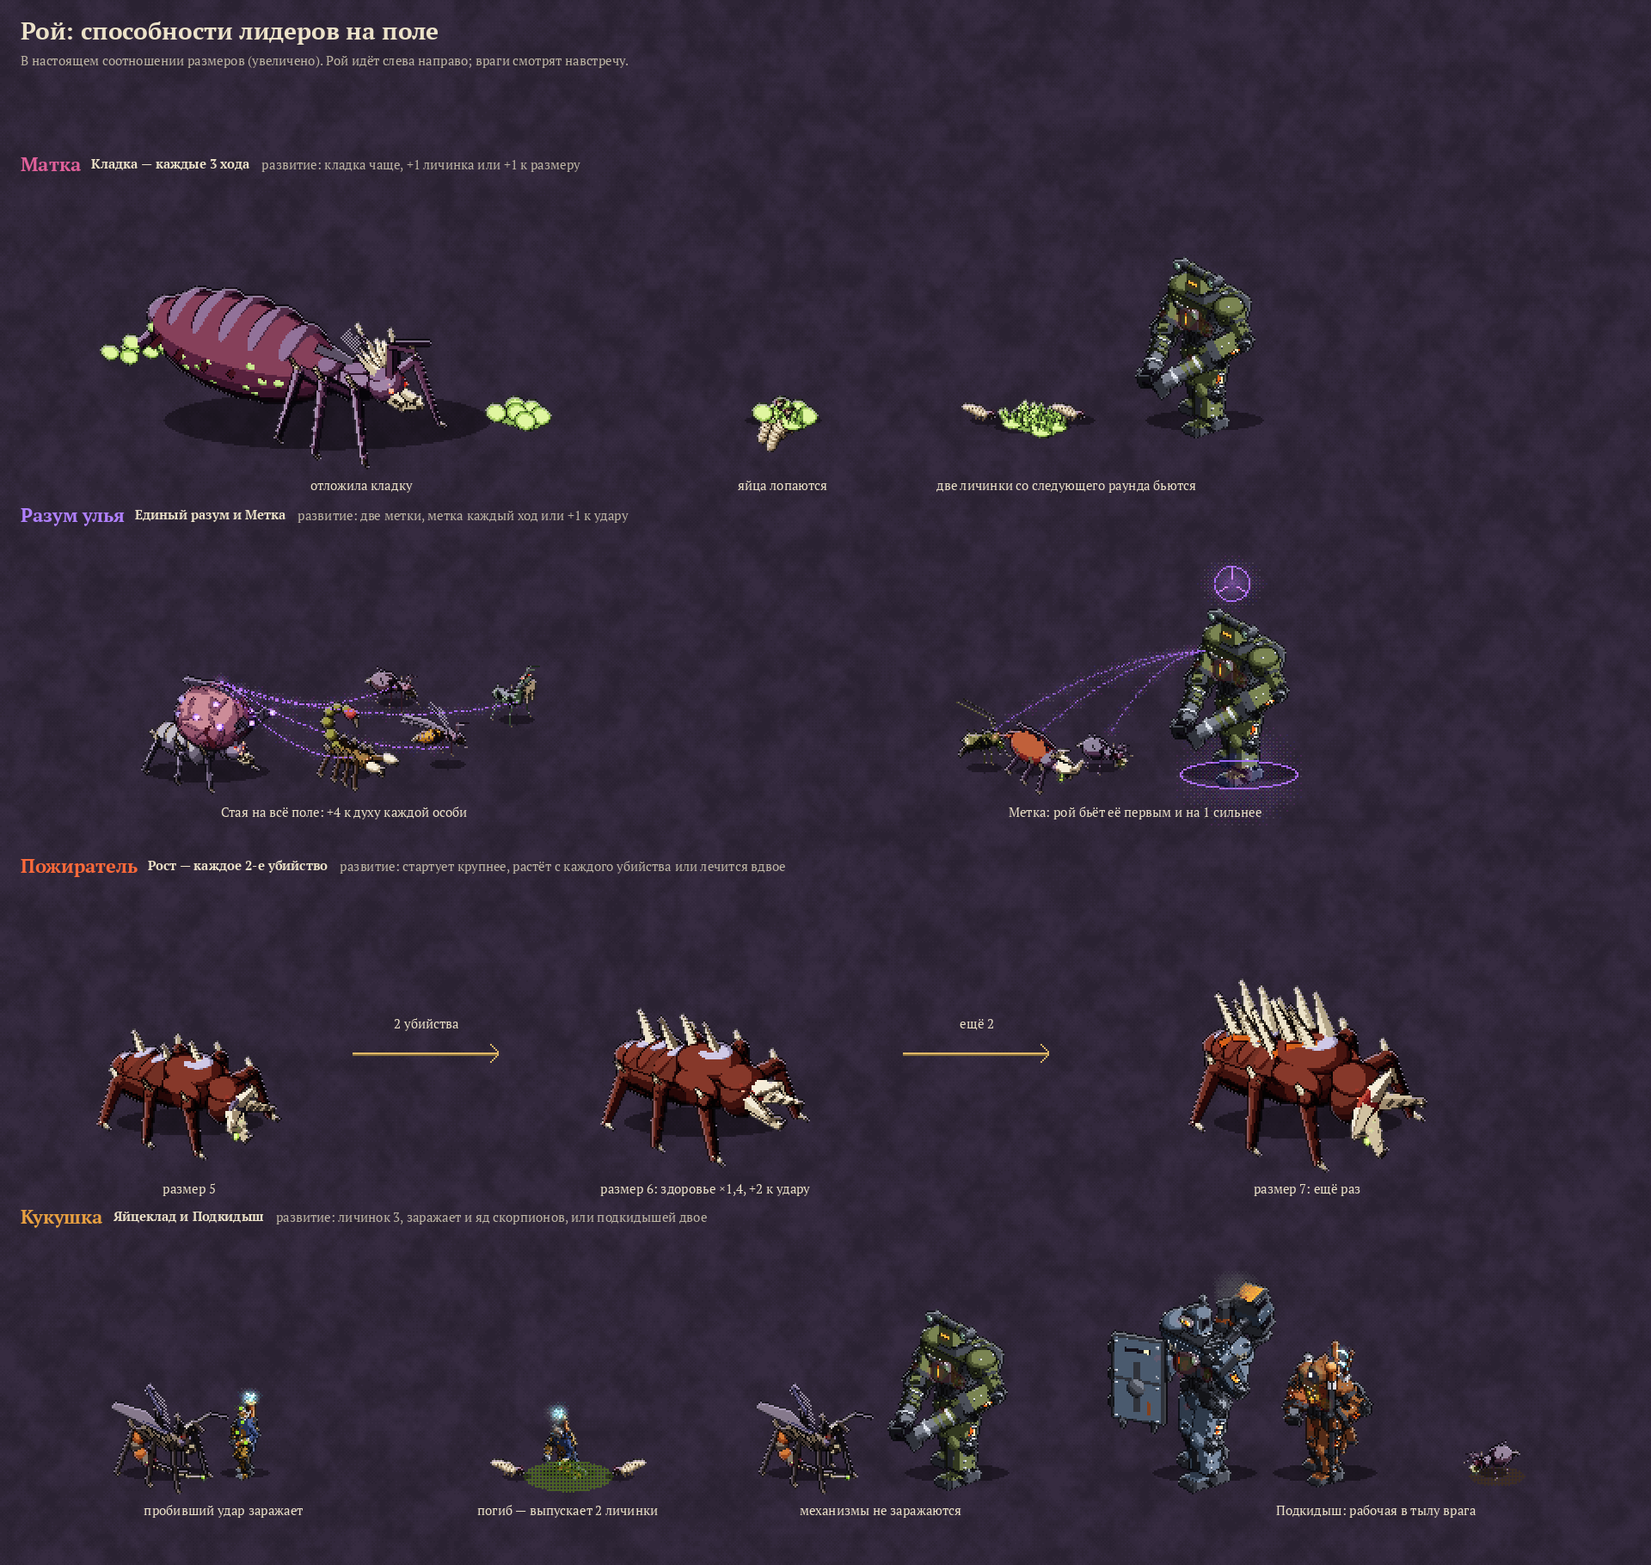
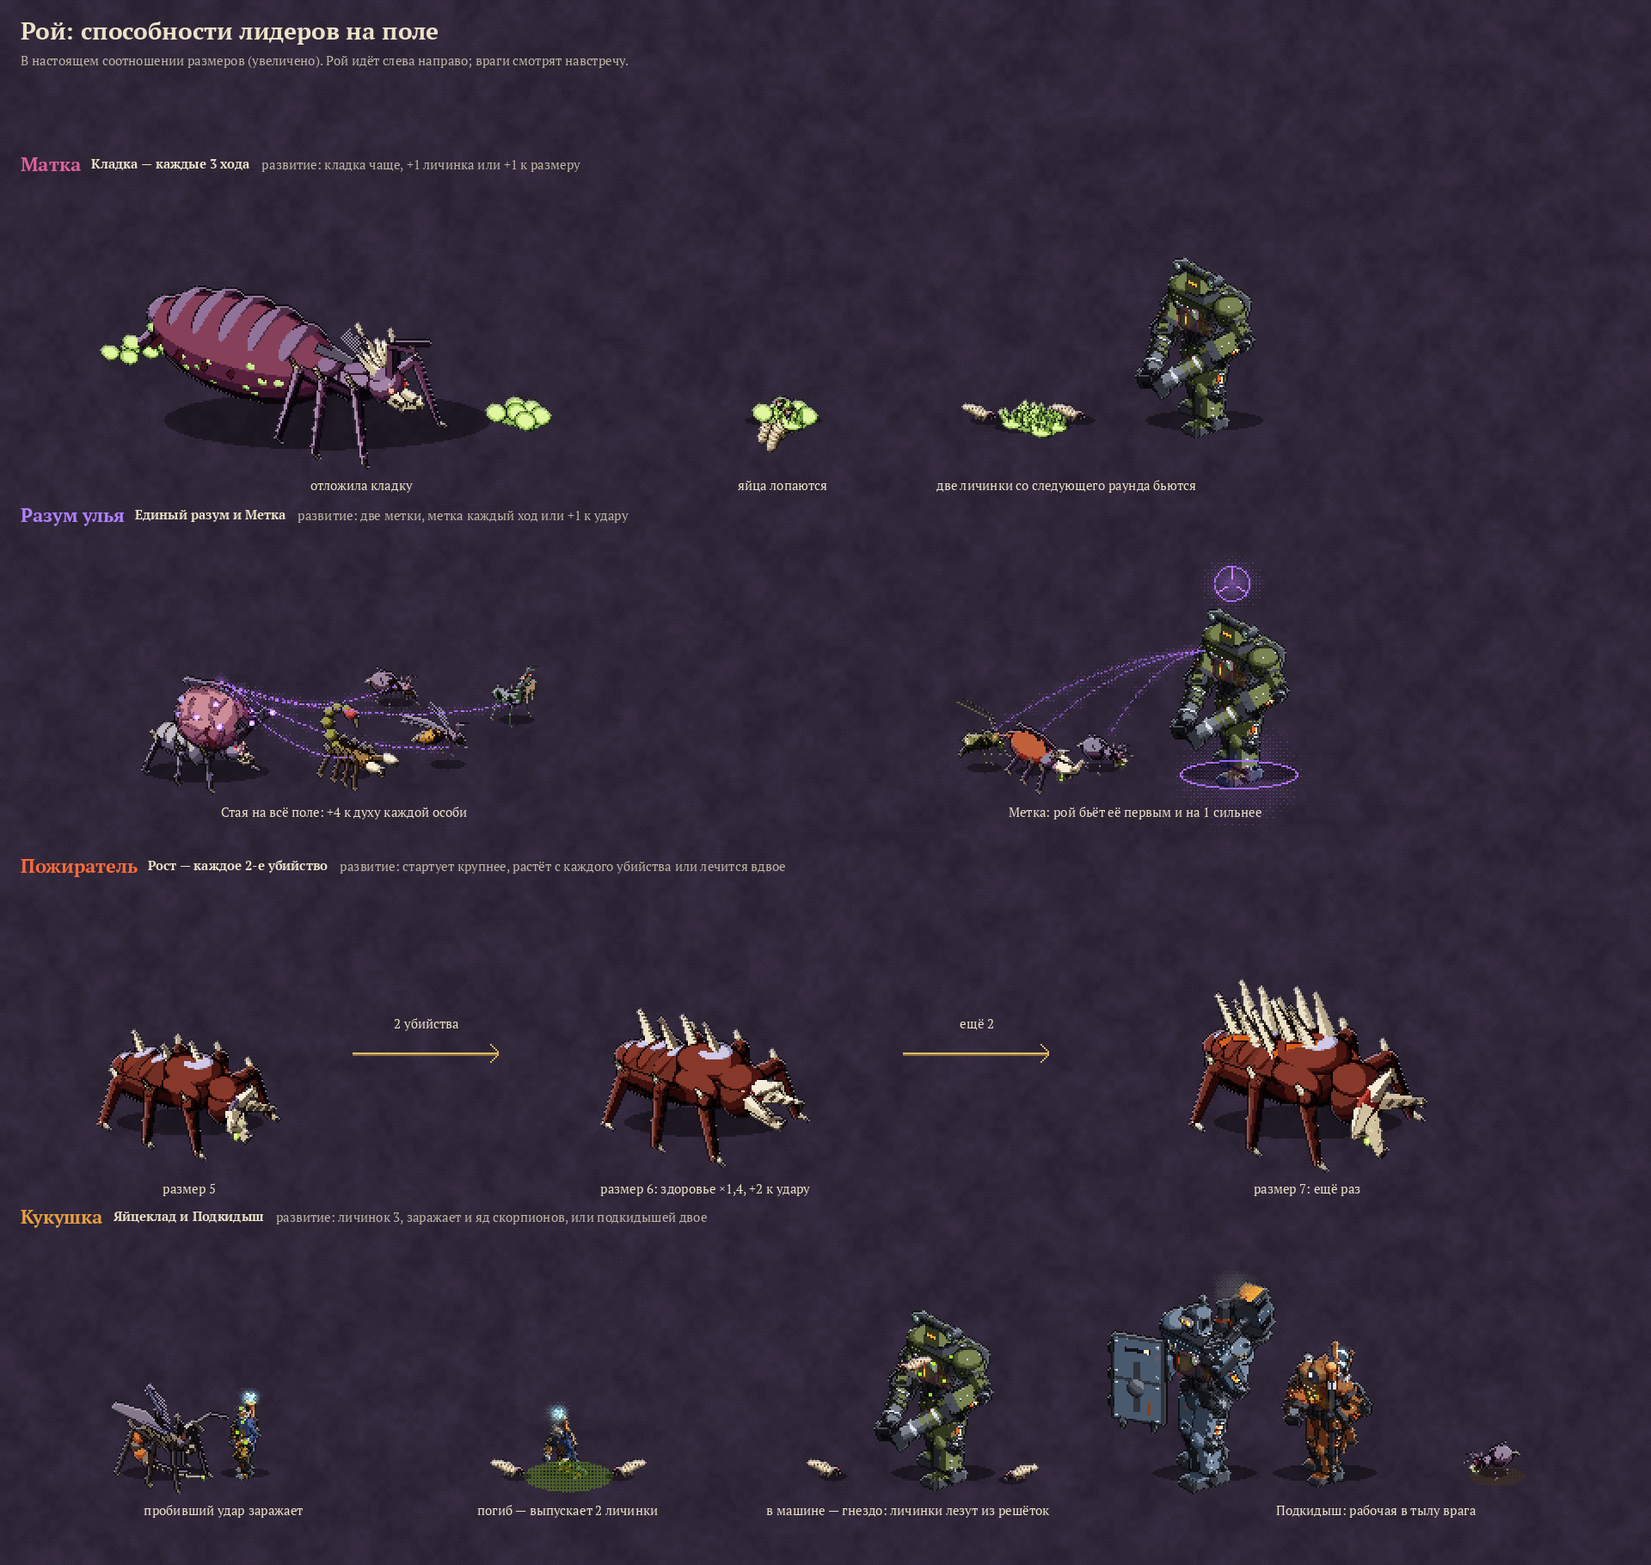
Рой против машин: гнездо Кукушки, яд скорпиона разъедает броню
Яйцеклад: в машине яйца зреют в тепле топки — каждые 3 хода из её решёток
лезет личинка, сломанная выпускает ещё 2; слабость Кукушки теперь «огонь
выжигает кладку». Жало скорпиона снимает броню (−1, не больше −2 с цели),
и машинам тоже. Двойник заменён Почкованием, у Стрекота нет минуса.

Claude-Session: https://claude.ai/code/session_01Bh6a99SKMjjKSinDnrtssC

Changed region(s): [[0.4688, 0.8308, 0.625, 0.9846]]

diff --git a/tools/sprites/swarm_leaders.py b/tools/sprites/swarm_leaders.py
@@ -500,10 +500,10 @@ LEADERS = [
       ("Всё в пасть", "поход: биомасса идёт в его рост между боями; рой меньше"),
       ("Ненасытный", "слабость: три раунда без убийства — теряет десятую часть здоровья", 1)]),
     ("Кукушка", "размер 3 · рой растёт за счёт врага", 2.2,
-     [("Яйцеклад", "атака: пробивший удар заражает; заражённый враг, погибнув, выпускает 2 личинки"),
+     [("Яйцеклад", "атака: заражает; живой, погибнув, выпускает 2 личинки, машина — гнездо"),
       ("Подкидыш", "в начале боя: одна рабочая оказывается в тылу врага"),
       ("Чужие черты", "поход: чужие черты чаще и безумнее, у особи их может быть две"),
-      ("Чужая кровь", "слабость: на механизмы и нежить заражение не действует", 1)]),
+      ("Хрупкая кладка", "слабость: огонь выжигает кладку — заражённый очищается", 1)]),
 ]
 ACCENT = ["#e0609a", "#b080ff", "#ff6a3a", "#e8a040"]
 

diff --git a/tools/sprites/swarm_abilities.py b/tools/sprites/swarm_abilities.py
@@ -202,10 +202,13 @@ def sheet():
     for dx in (-30, 30):
         put(sc, flip(SL.build("личинка", "attack", k)) if dx > 0 else SL.build("личинка", "attack", k), 330 + dx, by + 2, 8)
     caps.append((330, by + 10, "погиб — выпускает 2 личинки"))
-    ku2 = SL.build("Кукушка", "attack", k)
-    put(sc, ku2, 470, by, 24)
-    put(sc, flip(F.build("Орудие", "idle", k=1.6 * k)), 556, by, 30)
-    caps.append((512, by + 10, "механизмы не заражаются"))
+    gx = 548                                           # a machine is a nest: eggs ripen in the warmth of its furnace
+    put(sc, flip(F.build("Орудие", "idle", k=1.6 * k)), gx, by, 30)
+    spots(sc, gx - 6, by - 64, [(0, 0), (-8, 6), (6, 10), (-2, 18), (10, -4)])
+    put(sc, flip(SL.build("личинка", "attack", k)), gx - 22, by - 58, 0)
+    put(sc, SL.build("личинка", "attack", k), gx - 64, by + 2, 8)
+    put(sc, flip(SL.build("личинка", "idle", k)), gx + 40, by + 4, 8)
+    caps.append((gx - 20, by + 10, "в машине — гнездо: личинки лезут из решёток"))
     for g, x in (("Страж", 700), ("Мудрец", 770)):
         put(sc, flip(F.build(g, "idle", k=F.FRAMES[g][0] * k * 0.8)), x, by, 30)
     splat(sc, 870, by + 2, 16, col=hexc("#6a5038"), k=0.8)

diff --git a/docs/CONCEPT.md b/docs/CONCEPT.md
@@ -821,7 +821,7 @@
 |---|---|---|
 | Муравей | **Строй**: +1 к удару, если рядом трое своих | — |
 | Оса | **Полёт**: летит через строй, бьёт стрелков и лидеров первыми; скорость +1 | хрупкая; подожжённая или сбитая падает |
-| Скорпион | **Жало**: колет, и пробивший удар отравляет (1–4 яда у рабочей, 1–6 у солдата; яд копится) | на механизмы яд не действует; медленнее |
+| Скорпион | **Жало**: колет, и пробивший удар отравляет (1–4 яда у рабочей, 1–6 у солдата; яд копится) и разъедает броню: −1 до конца боя, не больше −2 с одной цели. На машины яд не действует, но броню разъедает и им | медленнее |
 | Бочонок | **Плевок** кислотой на 3 клетки, снимает броню | мягкое тело; при гибели **лопается** кислотой на всех соседей, своих тоже |
 | Жук-носорог | **Разгон**: первый удар боя ×1,5 и отбрасывает; бьёт дробящим; тяжёлый хитин | медленный |
 | Мокрица | **Шипы**: кто бьёт её вплотную, получает колющий; раненая ниже половины **сворачивается** — +3 брони, но не бьёт; тяжёлый хитин | слабый удар, медленная |
@@ -1018,9 +1018,9 @@
 
 | Способность | Когда | Что делает |
 |---|---|---|
-| Яйцеклад | атака | пробивший удар заражает; заражённый враг, погибнув, выпускает 2 личинки |
+| Яйцеклад | атака | пробивший удар заражает. В живом яйца ждут его гибели — он выпускает 2 личинки. В машине яйца зреют в тепле топки прямо в бою (**гнездо**): каждые 3 хода из её решёток вылезает личинка, а сломанная выпускает ещё 2; так же в нежити |
 | Подкидыш | в начале боя | одна рабочая оказывается в тылу врага |
-| Чужая кровь | слабость | на механизмы и нежить заражение не действует — против Литейщика трудный выбор |
+| Хрупкая кладка | слабость | огонь выжигает кладку: заражённый, получив огонь — даже свой, — очищается |
 | Чужие черты | правило похода | чужие черты выпадают чаще и безумнее: у особи их может быть две |
 
 Развитие: личинок 3, заражает и яд скорпионов, или подкидышей двое.
@@ -1062,7 +1062,7 @@
 
 Редкие черты выпадают мутацией нечасто и меняют поведение, а не цифры, как редкие модули
 у Литейщика. Редкая черта занимает место детали (у особи их не больше двух), наследуется
-как обычная и видна на спрайте. Минус у черты свой, но он никогда не бьёт по остальному рою.
+как обычная и видна на спрайте. Минус, если он есть, никогда не бьёт по остальному рою.
 
 | Редкая черта | Что даёт | Минус | Как видно |
 |---|---|---|---|
@@ -1070,8 +1070,8 @@
 | **Прядильные железы** | раз за бой оплетает клетку перед собой; паутина остаётся до конца боя, и каждый враг, вошедший в неё, застревает на раунд; свои бегают по паутине свободно, как пауки | в раунд, когда плетёт, не бьёт; огонь сжигает паутину | паутинные бородавки на конце брюшка, нить |
 | **Взрывной муравей** | раненая ниже половины лопается липким ядом: соседние враги склеены — раунд не ходят и не бьют | гибнет сама | раздутое жёлтое брюшко в железах |
 | **Живородящая** | погибнув, выпускает личинку | — | брюшко-мешок, сквозь которое видна личинка |
-| **Стрекот** | раз за бой стрекочет: враги до 2 клеток проверяют страх 1–6; машины страха не знают, но их детали дребезжат — −2 к инициативе на раунд | в раунд стрекота не бьёт | рубчатый «смычок» на спине |
-| **Двойник** | в начале боя похожа на врага: пока не ударила, враги считают её своей — она проходит сквозь их строй и встаёт за спину; первый удар из-за спины двойной | раскрытую враги бьют первой | хитин под врага: против Литейщика — клёпаные пластины и тусклое «ядро» в груди |
+| **Стрекот** | раз за бой стрекочет: враги до 2 клеток проверяют страх 1–6; машины страха не знают, но их детали дребезжат — −2 к инициативе на раунд | — | рубчатый «смычок» на спине |
+| **Почкование** | впервые раненая, делится надвое: две особи, у каждой половина оставшегося здоровья; новая почковаться не умеет | — | на боку растёт почка — маленькая вторая особь с глазками |
 
 ![Редкие черты](images/swarm_rare.png)
 

diff --git a/docs/ART.md b/docs/ART.md
@@ -307,8 +307,8 @@
 феромонные нити от Разума улья к особям по всему полю; Метка — фиолетовое кольцо под целью
 и знак над ней, к которому тянутся нити атакующих. Пожиратель растёт на глазах: 5 → 6 → 7.
 Кукушка жалит яйцекладом: на заражённом проступают зелёные пятна, погибнув, он падает в лужу
-слизи и выпускает двух личинок; механизм не заражается. Подкидыш — рабочая, вылезшая из-под земли
-в тылу врага.
+слизи и выпускает двух личинок; машина становится гнездом — в тепле топки яйца зреют, и личинки
+лезут из её решёток прямо в бою. Подкидыш — рабочая, вылезшая из-под земли в тылу врага.
 
 ![Способности лидеров роя](images/swarm_abilities.png)
 
@@ -336,8 +336,8 @@
 Редкая черта видна на теле, как деталь: Тревога — красные железы на груди и вздыбленные шипы
 с красными кончиками; Прядильные железы — паутинные бородавки и нить с клочком паутины; Взрывной
 муравей — раздутое жёлтое брюшко в железах; Живородящая — брюшко-мешок, в бок которого упирается
-свёрнутая личинка; Стрекот — рубчатый «смычок» на спине; Двойник — хитин под врага, против
-Литейщика это клёпаный стальной панцирь, тусклое «ядро» и труба. Ниже — как каждая срабатывает в бою.
+свёрнутая личинка; Стрекот — рубчатый «смычок» на спине; Почкование — на боку растёт почка, маленькая вторая особь
+с глазками. Ниже — как каждая срабатывает в бою.
 
 ![Редкие черты](images/swarm_rare.png)
 
